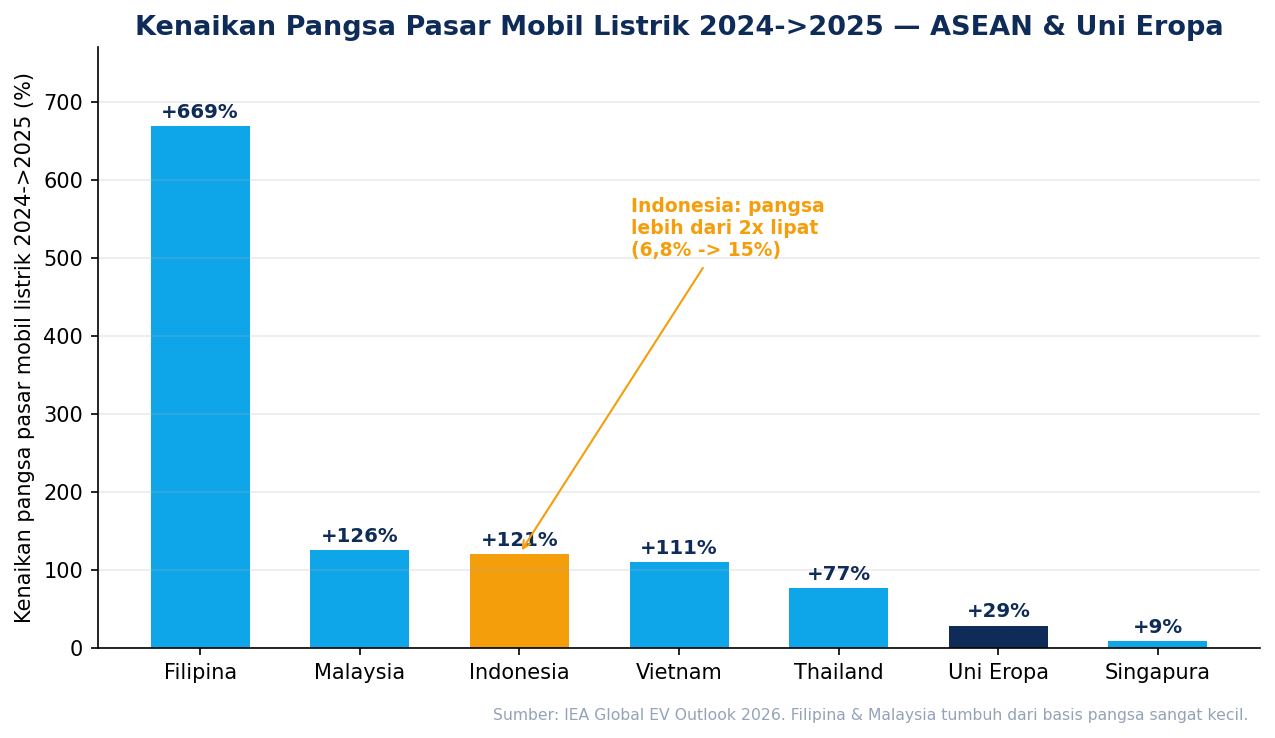
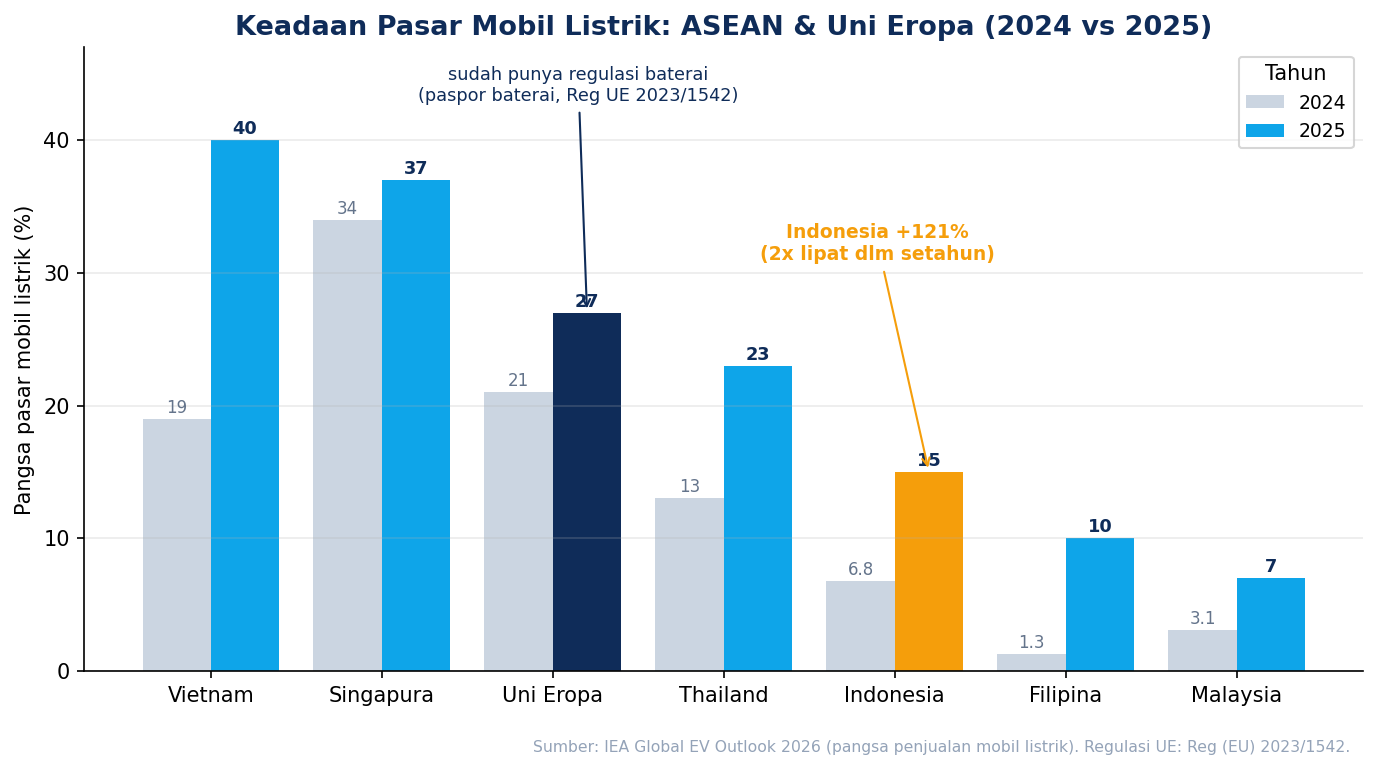
Ubah grafik pangsa pasar ASEAN jadi 2-bar (pangsa 2024 vs 2025), sorot Indonesia & tanda regulasi UE

diff --git a/scripts/viz_pertumbuhan_dan_spklu.py b/scripts/viz_pertumbuhan_dan_spklu.py
@@ -37,31 +37,41 @@ ax.text(0.99,-0.13,"Sumber: IEA Global EV Outlook 2026. Pangsa Indonesia 6,8% ->
 fig.savefig(OUT/"viz_pertumbuhan_pangsa.png",dpi=150,bbox_inches="tight",facecolor="white")
 print("OK viz_pertumbuhan_pangsa.png")
 
-# ---------- 1b. Kenaikan pangsa pasar — SELURUH ASEAN + Eropa ----------
+# ---------- 1b. Pangsa pasar 2024 vs 2025 — ASEAN + Eropa (grouped 2-bar) ----------
+# Memperlihatkan KEADAAN tiap negara (level pangsa 2024 & 2025); Indonesia disorot;
+# Uni Eropa ditandai "sudah punya regulasi". Urut menurun berdasarkan pangsa 2025.
 allset=[("Indonesia",6.8,15),("Thailand",13,23),("Vietnam",19,40),("Singapura",34,37),
         ("Malaysia",3.1,7),("Filipina",1.3,10),("Uni Eropa",21,27)]
-allset=[(n,(b-a)/a*100) for n,a,b in allset]
-allset.sort(key=lambda t:-t[1])
-labels=[g[0] for g in allset]; inc=[g[1] for g in allset]
-cols=[ORANGE if l=="Indonesia" else (NAVY if l=="Uni Eropa" else TEAL) for l in labels]
-fig,ax=plt.subplots(figsize=(10,5.2))
-b=ax.bar(labels,inc,color=cols,width=0.62)
-for bar,v in zip(b,inc):
-    ax.annotate(f"+{v:.0f}%",(bar.get_x()+bar.get_width()/2,v),xytext=(0,4),
-                textcoords="offset points",ha="center",fontsize=9.5,fontweight="bold",color=NAVY)
-ax.set_ylabel("Kenaikan pangsa pasar mobil listrik 2024->2025 (%)")
-ax.set_title("Kenaikan Pangsa Pasar Mobil Listrik 2024->2025 — ASEAN & Uni Eropa",
+allset.sort(key=lambda t:-t[2])
+labels=[g[0] for g in allset]; v24=[g[1] for g in allset]; v25=[g[2] for g in allset]
+x=np.arange(len(labels)); w=0.40
+fig,ax=plt.subplots(figsize=(11,5.4))
+ax.bar(x-w/2,v24,w,color="#cbd5e1",label="2024")
+c25=[ORANGE if l=="Indonesia" else (NAVY if l=="Uni Eropa" else TEAL) for l in labels]
+ax.bar(x+w/2,v25,w,color=c25,label="2025")
+for i in range(len(labels)):
+    ax.annotate(f"{v24[i]:g}",(i-w/2,v24[i]),xytext=(0,3),textcoords="offset points",
+                ha="center",fontsize=8,color="#64748b")
+    ax.annotate(f"{v25[i]:g}",(i+w/2,v25[i]),xytext=(0,3),textcoords="offset points",
+                ha="center",fontsize=8.5,fontweight="bold",color=NAVY)
+ax.set_xticks(x); ax.set_xticklabels(labels,fontsize=10)
+ax.set_ylabel("Pangsa pasar mobil listrik (%)")
+ax.set_title("Keadaan Pasar Mobil Listrik: ASEAN & Uni Eropa (2024 vs 2025)",
              fontsize=13,fontweight="bold",color=NAVY)
-ax.spines[["top","right"]].set_visible(False); ax.grid(axis="y",alpha=.25)
-ax.set_ylim(0,max(inc)*1.15)
+ax.legend(loc="upper right",fontsize=9,title="Tahun")
+ax.spines[["top","right"]].set_visible(False); ax.grid(axis="y",alpha=.25); ax.set_ylim(0,47)
 idx=labels.index("Indonesia")
-ax.annotate("Indonesia: pangsa\nlebih dari 2x lipat\n(6,8% -> 15%)",(idx,inc[idx]),
-            xytext=(idx+0.7,max(inc)*0.75),fontsize=9,color=ORANGE,fontweight="bold",
+ax.annotate("Indonesia +121%\n(2x lipat dlm setahun)",(idx+w/2,v25[idx]),xytext=(idx-0.1,31),
+            fontsize=9,color=ORANGE,fontweight="bold",ha="center",
             arrowprops=dict(arrowstyle="->",color=ORANGE))
-ax.text(0.99,-0.12,"Sumber: IEA Global EV Outlook 2026. Filipina & Malaysia tumbuh dari basis pangsa sangat kecil.",
+eu=labels.index("Uni Eropa")
+ax.annotate("sudah punya regulasi baterai\n(paspor baterai, Reg UE 2023/1542)",(eu+w/2,v25[eu]),
+            xytext=(eu+0.15,43),fontsize=8.5,color=NAVY,ha="center",
+            arrowprops=dict(arrowstyle="->",color=NAVY))
+ax.text(0.99,-0.13,"Sumber: IEA Global EV Outlook 2026 (pangsa penjualan mobil listrik). Regulasi UE: Reg (EU) 2023/1542.",
         transform=ax.transAxes,ha="right",fontsize=7.5,color="#94a3b8")
 fig.savefig(OUT/"viz_pertumbuhan_pangsa_asean.png",dpi=150,bbox_inches="tight",facecolor="white")
-print("OK viz_pertumbuhan_pangsa_asean.png")
+print("OK viz_pertumbuhan_pangsa_asean.png (2-bar)")
 
 # ---------- 2. EV per SPKLU (public charging point), 2025 ----------
 # (negara, EV per 1 charging point) -- IEA 'Electric LDVs per charging point'